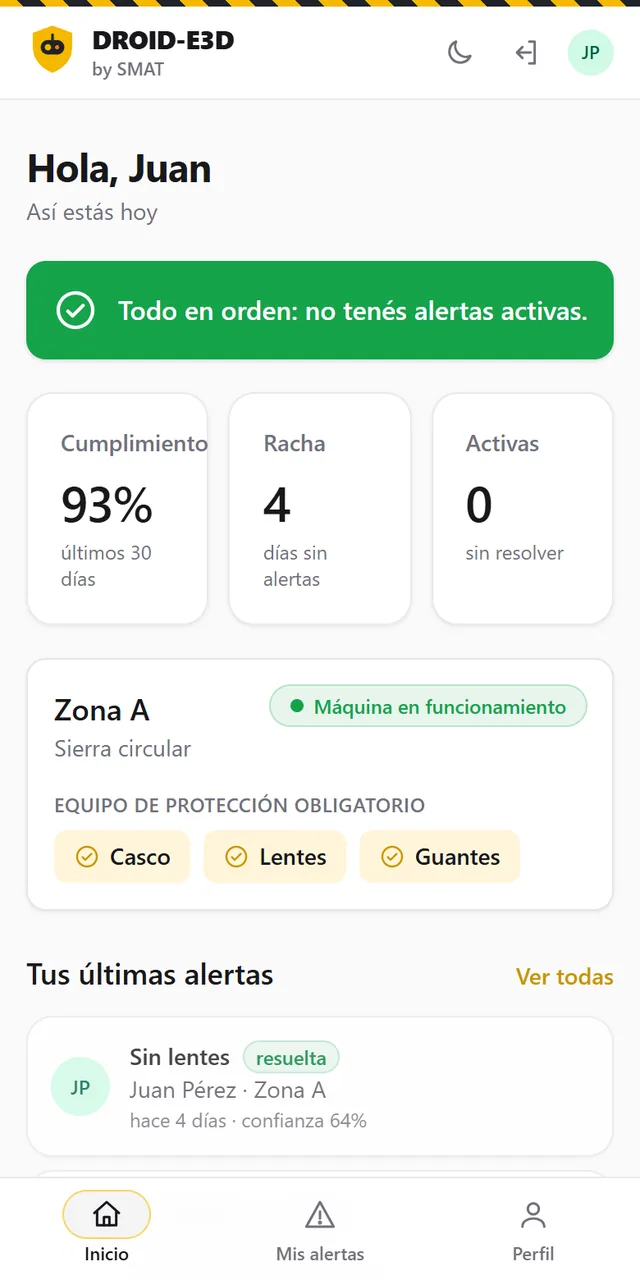
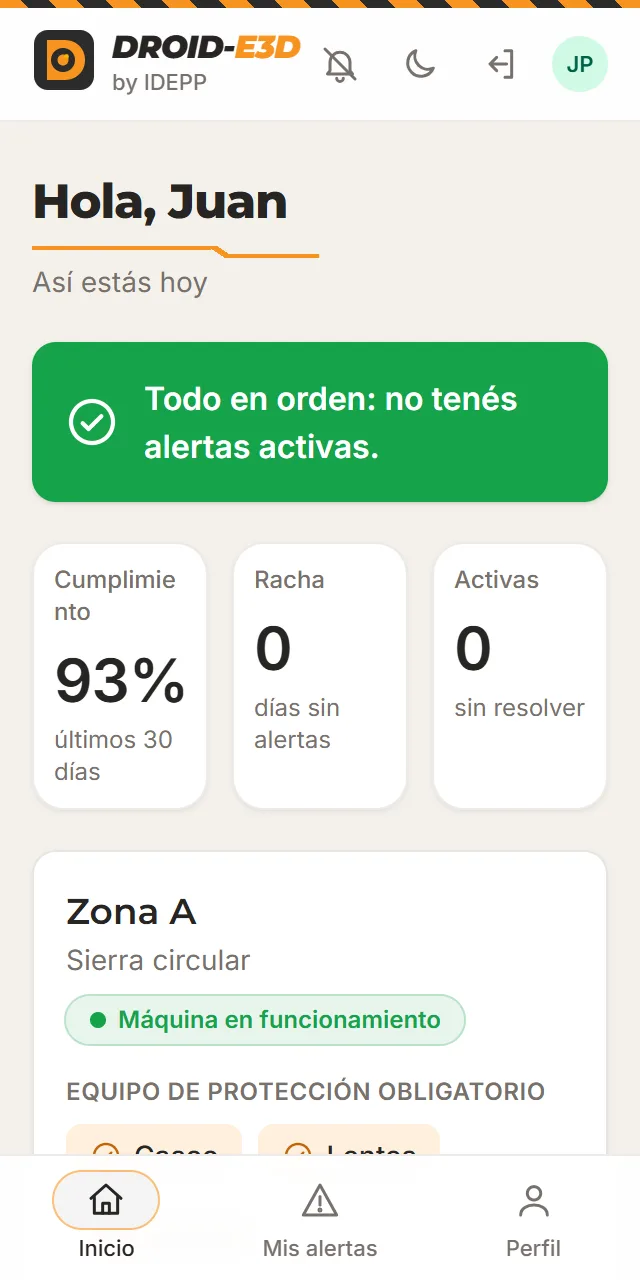
web: misma estética que la caja y el manual de usuario (naranja, crema, Montserrat)
Solo cambia el diseño, no el funcionamiento:
- Marca naranja #F7931E (antes amarillo), fondo crema, grises cálidos, títulos en Montserrat.
- Logo: D naranja con brillo amarillo; nombre DROID-E3D inclinado con E3D en naranja.
- Franja de la marca y línea con quiebre debajo del título de cada página.
- Favicon, íconos de la app y capturas de la página pública con el diseño nuevo
  (las viejas decían "by SMAT").
- Manual de marca v3 y logos SVG actualizados.

diff --git a/src/SMAT/frontend/src/index.css b/src/SMAT/frontend/src/index.css
@@ -5,15 +5,34 @@
 @custom-variant dark (&:where(.dark, .dark *));
 
 /* Colores de la marca (docs/SMAT/EMPRESA-SMAT/03-marca/manual-de-marca.md).
-   Estilo SaaS: el amarillo es el ACENTO (logo, elemento activo, foco); los botones principales usan tinta.
+   Misma estética que la caja y el manual de usuario: naranja de acento, fondo crema, grises cálidos
+   y títulos en Montserrat. Los botones principales usan tinta.
    Se usan como clases: bg-marca, text-alerta, border-ok, etc. */
 @theme {
-  --color-marca: #f5b800;        /* amarillo de seguridad: acentos */
-  --color-marca-oscuro: #c99400; /* amarillo para texto sobre fondo claro */
-  --color-naranja: #f97316;      /* advertencias, máquina detenida */
+  --color-marca: #f7931e;        /* naranja de la caja: acentos */
+  --color-marca-oscuro: #c2650a; /* naranja para texto sobre fondo claro (se lee bien) */
+  --color-naranja: #d97706;      /* advertencias (ámbar, para no confundirse con la marca) */
   --color-alerta: #dc2626;       /* rojo: alertas activas, emergencia */
   --color-ok: #16a34a;           /* verde: todo en orden */
-  --color-tinta: #1f2328;        /* texto oscuro sobre amarillo */
+  --color-tinta: #2b2b2b;        /* texto oscuro sobre naranja (el gris oscuro de la caja) */
+  --color-crema: #f4f1eb;        /* fondo de la página, como el de la caja */
+
+  /* Letra de los títulos: Montserrat, como la caja y el manual (se carga en index.html). El texto sigue con la letra del sistema. */
+  --font-titulo: "Montserrat", "Inter", ui-sans-serif, system-ui, sans-serif;
+
+  /* Grises cálidos (tono piedra) en vez de los grises fríos: combinan con el crema y el naranja.
+     Así toda la web cambia de tono sin tocar cada componente. */
+  --color-zinc-50: #fafaf9;
+  --color-zinc-100: #f5f5f4;
+  --color-zinc-200: #e7e5e4;
+  --color-zinc-300: #d6d3d1;
+  --color-zinc-400: #a8a29e;
+  --color-zinc-500: #78716c;
+  --color-zinc-600: #57534e;
+  --color-zinc-700: #44403c;
+  --color-zinc-800: #2f2d2b;
+  --color-zinc-900: #262523;
+  --color-zinc-950: #1b1a19;
 
   /* sombras más suaves que las de fábrica, típicas de un panel SaaS */
   --shadow-xs: 0 1px 2px 0 rgb(0 0 0 / 0.04);
@@ -24,9 +43,13 @@
 @layer base {
   /* Fondo y texto de toda la página, en claro y en oscuro */
   body {
-    @apply bg-zinc-50 text-zinc-900 antialiased dark:bg-zinc-950 dark:text-zinc-100;
+    @apply bg-crema text-zinc-900 antialiased dark:bg-zinc-950 dark:text-zinc-100;
   }
-  /* Borde amarillo visible al moverse con el teclado (Tab), en todos los elementos */
+  /* Títulos en Montserrat, como la caja y el manual */
+  h1, h2, h3 {
+    font-family: var(--font-titulo);
+  }
+  /* Borde naranja visible al moverse con el teclado (Tab), en todos los elementos */
   :focus-visible {
     @apply outline-2 outline-offset-2 outline-marca;
   }
@@ -37,6 +60,15 @@
 @keyframes aparecer { from { opacity: 0; transform: translateY(6px); } to { opacity: 1; transform: none; } }
 @keyframes avanzar-recorrido { to { stroke-dashoffset: -44; } }
 @layer utilities {
+  /* Franja de la marca: rayas naranjas y gris oscuro en diagonal (como las /// de la caja) */
+  .franja-marca { background-image: repeating-linear-gradient(45deg, var(--color-marca) 0 10px, var(--color-tinta) 10px 20px); }
+  /* Línea naranja con un quiebre en diagonal, debajo del título de cada página (como el manual) */
+  .trazo-marca {
+    height: 6px; width: 9rem;
+    background: linear-gradient(var(--color-marca), var(--color-marca)) 0 0 / 5.6rem 2px no-repeat,
+                linear-gradient(var(--color-marca), var(--color-marca)) 6.15rem 4px / 2.85rem 2px no-repeat,
+                linear-gradient(33deg, transparent 42%, var(--color-marca) 42% 64%, transparent 64%) 5.45rem 0 / 0.85rem 6px no-repeat;
+  }
   .animar-panel { animation: entrar-derecha 0.22s ease-out; }
   /* Mapa: el robot se desliza de una zona a otra y el recorrido punteado avanza */
   .robot-mapa { transition: transform 1.2s ease-in-out; }

diff --git a/src/SMAT/frontend/src/components/Logo.jsx b/src/SMAT/frontend/src/components/Logo.jsx
@@ -1,22 +1,23 @@
-// Logo de DROID-E3D: una letra D amarilla con el lente de una cámara (ver el manual de marca).
+// Logo de DROID-E3D: una letra D naranja con el lente de una cámara (ver el manual de marca).
 // conTexto = muestra también "DROID-E3D by IDEPP" al lado.
 export default function Logo({ conTexto = true, className = 'size-9' }) {
   return (
     <span className="inline-flex items-center gap-2">
       <svg viewBox="0 0 64 64" className={className} aria-hidden="true">
         {/* fondo: cuadrado con puntas redondeadas */}
-        <rect x="2" y="2" width="60" height="60" rx="14" fill="#1f2328" />
-        {/* letra D amarilla */}
-        <path d="M15 12h17c13 0 21 9 21 20s-8 20-21 20H15z" fill="#f5b800" />
+        <rect x="2" y="2" width="60" height="60" rx="14" fill="#2b2b2b" />
+        {/* letra D naranja */}
+        <path d="M15 12h17c13 0 21 9 21 20s-8 20-21 20H15z" fill="#f7931e" />
         {/* lente de la cámara */}
-        <circle cx="31" cy="32" r="12" fill="#1f2328" />
-        <circle cx="31" cy="32" r="5.5" fill="#f5b800" />
-        {/* brillo naranja del lente */}
-        <circle cx="34.5" cy="28.5" r="2.3" fill="#f97316" />
+        <circle cx="31" cy="32" r="12" fill="#2b2b2b" />
+        <circle cx="31" cy="32" r="5.5" fill="#f7931e" />
+        {/* brillo amarillo del lente */}
+        <circle cx="34.5" cy="28.5" r="2.3" fill="#f5b800" />
       </svg>
       {conTexto && (
         <span className="leading-none">
-          <span className="block text-base font-extrabold tracking-tight">DROID-E3D</span>
+          {/* El nombre como en la caja: Montserrat gruesa e inclinada, con "E3D" en naranja */}
+          <span className="block font-titulo text-base font-black tracking-tight italic">DROID-<span className="text-marca">E3D</span></span>
           <span className="block text-[11px] font-medium text-zinc-500 dark:text-zinc-400">by IDEPP</span>
         </span>
       )}

diff --git a/src/SMAT/frontend/src/components/publico/LayoutPublico.jsx b/src/SMAT/frontend/src/components/publico/LayoutPublico.jsx
@@ -6,7 +6,7 @@ import EncabezadoPublico, { SECCIONES } from './EncabezadoPublico.jsx'
 
 function Pie() {
   return (
-    <footer className="border-t border-zinc-200/70 bg-white dark:border-zinc-800 dark:bg-zinc-950">
+    <footer className="border-t border-zinc-200/70 bg-crema dark:border-zinc-800 dark:bg-zinc-950">
       <div className="mx-auto grid max-w-6xl gap-8 px-4 py-10 md:grid-cols-[2fr_1fr_1fr] md:px-8">
         <div>
           <Logo className="size-9" />
@@ -40,7 +40,7 @@ export default function LayoutPublico() {
   useEffect(() => { window.scrollTo(0, 0) }, [pathname])   // cada página nueva arranca desde arriba
 
   return (
-    <div className="flex min-h-dvh flex-col bg-white text-zinc-900 dark:bg-zinc-950 dark:text-zinc-100">
+    <div className="flex min-h-dvh flex-col bg-crema text-zinc-900 dark:bg-zinc-950 dark:text-zinc-100">
       <a href="#contenido" className="sr-only focus:not-sr-only focus:absolute focus:z-50 focus:m-2 focus:rounded-lg focus:bg-marca focus:px-3 focus:py-2 focus:text-tinta">
         Saltar al contenido
       </a>

diff --git a/src/SMAT/frontend/src/components/publico/EncabezadoPublico.jsx b/src/SMAT/frontend/src/components/publico/EncabezadoPublico.jsx
@@ -31,8 +31,8 @@ export default function EncabezadoPublico() {
     : <Link to="/login" className="rounded-lg bg-zinc-900 px-4 py-2 text-sm font-semibold text-white hover:bg-zinc-700 dark:bg-white dark:text-zinc-900 dark:hover:bg-zinc-200">Ingresar</Link>
 
   return (
-    <header className="sticky top-0 z-40 border-b border-zinc-200/70 bg-white/85 backdrop-blur dark:border-zinc-800 dark:bg-zinc-950/85">
-      <div className="h-1 bg-[repeating-linear-gradient(45deg,#f5b800_0_10px,#1f2328_10px_20px)]" />
+    <header className="sticky top-0 z-40 border-b border-zinc-200/70 bg-crema/85 backdrop-blur dark:border-zinc-800 dark:bg-zinc-950/85">
+      <div className="h-1 franja-marca" />
       <nav className="mx-auto flex h-16 max-w-6xl items-center justify-between gap-4 px-4 md:px-8" aria-label="Principal">
         <Link to="/" aria-label="DROID-E3D, página de inicio"><Logo className="size-9" /></Link>
 

diff --git a/src/SMAT/frontend/src/components/BarraLateral.jsx b/src/SMAT/frontend/src/components/BarraLateral.jsx
@@ -26,7 +26,7 @@ export default function BarraLateral() {
 
   return (
     <aside className={`sticky top-0 hidden h-dvh shrink-0 flex-col border-r border-zinc-200/80 bg-white transition-[width] duration-200 md:flex dark:border-zinc-800 dark:bg-zinc-900 ${colapsado ? 'w-[72px]' : 'w-64'}`}>
-      <div className="h-1 shrink-0 bg-[repeating-linear-gradient(45deg,#f5b800_0_10px,#1f2328_10px_20px)]" />
+      <div className="h-1 shrink-0 franja-marca" />
       <div className={`flex h-16 items-center ${colapsado ? 'justify-center' : 'justify-between px-4'}`}>
         <Link to={inicioSegunRol(usuario)} aria-label="Ir al inicio"><Logo conTexto={!colapsado} className="size-8" /></Link>
         {!colapsado && <button type="button" onClick={alternar} className={iconoChico} aria-label="Achicar el menú" title="Achicar el menú"><span aria-hidden="true">«</span></button>}

diff --git a/src/SMAT/frontend/index.html b/src/SMAT/frontend/index.html
@@ -3,7 +3,11 @@
   <head>
     <meta charset="UTF-8" />
     <meta name="viewport" content="width=device-width, initial-scale=1.0" />
-    <meta name="theme-color" content="#f5b800" />
+    <meta name="theme-color" content="#f7931e" />
+    <!-- Letra de los títulos (Montserrat), como la caja y el manual -->
+    <link rel="preconnect" href="https://fonts.googleapis.com" />
+    <link rel="preconnect" href="https://fonts.gstatic.com" crossorigin />
+    <link rel="stylesheet" href="https://fonts.googleapis.com/css2?family=Montserrat:ital,wght@0,600;0,700;0,800;0,900;1,800;1,900&display=swap" />
     <link rel="icon" type="image/svg+xml" href="/favicon.svg" />
     <!-- Ícono al instalar en el iPhone (el resto de los íconos los declara el manifest de la PWA) -->
     <link rel="apple-touch-icon" href="/iconos/apple-touch-icon.png" />

diff --git a/src/SMAT/frontend/src/components/FormZona.jsx b/src/SMAT/frontend/src/components/FormZona.jsx
@@ -67,7 +67,7 @@ export default function FormZona({ inicial, zonas, error, guardando, onGuardar, 
           {Object.entries(NOMBRES_EPP).map(([clave, nombre]) => (
             <label key={clave} className={`cursor-pointer rounded-lg border px-3 py-2 text-sm font-medium transition ${
               f.epp_requerido.includes(clave) ? 'border-marca bg-marca/15' : 'border-zinc-200 hover:bg-zinc-50 dark:border-zinc-700 dark:hover:bg-zinc-800'}`}>
-              <input type="checkbox" className="mr-2 accent-[#f5b800]" checked={f.epp_requerido.includes(clave)} onChange={() => alternarEpp(clave)} />
+              <input type="checkbox" className="mr-2 accent-marca" checked={f.epp_requerido.includes(clave)} onChange={() => alternarEpp(clave)} />
               {nombre}
             </label>
           ))}

diff --git a/src/SMAT/frontend/src/components/publico/Bloques.jsx b/src/SMAT/frontend/src/components/publico/Bloques.jsx
@@ -52,7 +52,7 @@ export function LlamadoDemo() {
   return (
     <section className="px-4 pb-16 md:px-8">
       <div className="relative mx-auto max-w-6xl overflow-hidden rounded-3xl bg-tinta px-6 py-12 text-white md:px-12">
-        <div aria-hidden="true" className="absolute inset-x-0 top-0 h-1.5 bg-[repeating-linear-gradient(45deg,#f5b800_0_12px,#1f2328_12px_24px)]" />
+        <div aria-hidden="true" className="absolute inset-x-0 top-0 h-1.5 franja-marca" />
         <div className="flex flex-col items-start justify-between gap-6 md:flex-row md:items-center">
           <div>
             <h2 className="text-2xl font-bold tracking-tight md:text-3xl">¿Querés verlo funcionando en tu planta?</h2>

diff --git a/src/SMAT/frontend/src/components/BarraMovil.jsx b/src/SMAT/frontend/src/components/BarraMovil.jsx
@@ -16,7 +16,7 @@ export default function BarraMovil() {
 
   return (
     <header className="sticky top-0 z-30 border-b border-zinc-200/80 bg-white/90 backdrop-blur md:hidden dark:border-zinc-800 dark:bg-zinc-900/90">
-      <div className="h-1 bg-[repeating-linear-gradient(45deg,#f5b800_0_10px,#1f2328_10px_20px)]" />
+      <div className="h-1 franja-marca" />
       <div className="flex h-14 items-center justify-between px-4">
         <Link to={inicioSegunRol(usuario)} aria-label="Ir al inicio"><Logo className="size-8" /></Link>
         <div className="flex items-center gap-1">

diff --git a/src/SMAT/frontend/src/components/Titulo.jsx b/src/SMAT/frontend/src/components/Titulo.jsx
@@ -3,7 +3,8 @@ export default function Titulo({ titulo, subtitulo, children }) {
   return (
     <div className="mb-5 flex flex-wrap items-end justify-between gap-3">
       <div>
-        <h1 className="text-2xl font-bold tracking-tight">{titulo}</h1>
+        <h1 className="text-2xl font-extrabold tracking-tight">{titulo}</h1>
+        <div className="trazo-marca mt-1.5" aria-hidden="true" />
         {subtitulo && <p className="mt-0.5 text-sm text-zinc-500 dark:text-zinc-400">{subtitulo}</p>}
       </div>
       {children && <div className="flex gap-2">{children}</div>}

diff --git a/src/SMAT/frontend/vite.config.js b/src/SMAT/frontend/vite.config.js
@@ -17,8 +17,8 @@ const pwa = VitePWA({
     start_url: '/app',                   // al abrir la app instalada va directo al sistema (pide login si hace falta)
     scope: '/',
     display: 'standalone',               // sin barra del navegador, como una app
-    background_color: '#1f2328',
-    theme_color: '#f5b800',
+    background_color: '#2b2b2b',
+    theme_color: '#f7931e',
     icons: [
       { src: '/iconos/icono-192.png', sizes: '192x192', type: 'image/png' },
       { src: '/iconos/icono-512.png', sizes: '512x512', type: 'image/png' },

diff --git a/docs/SMAT/EMPRESA-SMAT/03-marca/manual-de-marca.md b/docs/SMAT/EMPRESA-SMAT/03-marca/manual-de-marca.md
@@ -1,8 +1,11 @@
 # Manual de marca
 
-> **Estado:** completo (v2) · **Responsable:** Tiziano · **Revisión:** Morena · **Actualizado:** 05/11/2026
+> **Estado:** completo (v3) · **Responsable:** Tiziano · **Revisión:** Morena · **Actualizado:** 16/11/2026
 
 **Para qué sirve:** reglas visuales y de tono. La web de DROID-E3D ya usa estos colores (definidos en `src/SMAT/frontend/src/index.css`).
+
+**Desde el 16/11/2026 (v3)** la web, la caja y el manual de usuario siguen la **misma estética**: naranja, fondo crema, gris
+oscuro y títulos en Montserrat. Antes la marca era amarilla.
 
 ## 1. Nombres
 
@@ -17,7 +20,7 @@
 
 ## 2. Logo
 
-**Isotipo DROID-E3D:** una letra **D** amarilla con el lente de una cámara adentro (el robot que mira), sobre un cuadrado color tinta con las puntas redondeadas. Reemplaza al escudo de la v1 (06/10/2026).
+**Isotipo DROID-E3D:** una letra **D** naranja con el lente de una cámara adentro (el robot que mira), sobre un cuadrado color tinta con las puntas redondeadas. Reemplaza al escudo de la v1 (06/10/2026).
 
 | Archivo | Uso |
 |---|---|
@@ -27,31 +30,39 @@
 
 - **Tamaño mínimo:** 24 px de alto en pantalla, 8 mm impreso.
 - **Espacio libre alrededor:** el radio del lente, como mínimo, en los cuatro lados.
-- **Sobre fondo oscuro:** la D se mantiene amarilla y el cuadrado no cambia, aunque se funda con el fondo; el texto pasa a blanco.
+- **Sobre fondo oscuro:** la D se mantiene naranja y el cuadrado no cambia, aunque se funda con el fondo; el texto pasa a blanco.
 - **No hacer:** deformar o rotar el logo, cambiarle los colores, ponerle sombras, ubicarlo sobre fotos que no dejen leerlo.
 
 ## 3. Colores
 
 | Nombre | HEX | Uso |
 |---|---|---|
-| **Amarillo seguridad** (principal) | `#F5B800` | Logo, acentos, elemento activo del menú y foco del teclado |
-| Amarillo oscuro | `#C99400` | Botón al pasar el mouse, texto amarillo sobre blanco |
-| **Tinta** | `#1F2328` | Botones principales de la web, texto sobre amarillo, fondo y lente del logo, franja de seguridad |
+| **Naranja** (principal) | `#F7931E` | Logo, acentos, elemento activo del menú, foco del teclado, rayas `///` |
+| Naranja oscuro | `#C2650A` | Texto naranja sobre fondo claro (se lee mejor) |
+| **Tinta** | `#2B2B2B` | Botones principales de la web, texto sobre naranja, fondo y lente del logo, franja de la marca |
+| **Crema** | `#F4F1EB` | Fondo de la web, de la caja y del manual de usuario |
+| Amarillo | `#F5B800` | Brillo del lente del logo |
 | **Rojo alerta** | `#DC2626` | Alertas activas, parada de emergencia, errores |
 | **Verde OK** | `#16A34A` | Todo en orden, alertas resueltas |
-| Naranja | `#F97316` | Advertencias, brillo del lente del logo |
-| Grises | `#F4F4F5` a `#09090B` | Fondos y textos (escala *zinc*) |
+| Ámbar | `#D97706` | Advertencias (distinto del naranja de la marca) |
+| Grises cálidos | `#FAFAF9` a `#1B1A19` | Fondos y textos (tono piedra, combinan con el crema) |
 
-**Franja de seguridad:** rayas diagonales amarillo/tinta de 12 px, como la cinta de peligro. Se usa arriba de la barra de la web y del login.
+**Franja de la marca:** rayas diagonales naranja/tinta, como las `///` de la caja. Se usa arriba de la barra de la web y del login.
 
-**Contraste:** sobre el amarillo el texto va siempre en tinta, nunca en blanco (no se lee).
+**Línea con quiebre:** una línea naranja fina que baja en diagonal, como la de la caja. En la web va debajo del título de
+cada página; en el manual, arriba de cada hoja.
 
-**Estilo de la web (desde el 07/10/2026):** moderno tipo SaaS. El amarillo se usa como **acento** (no para todos los botones), con fondos claros, sombras suaves y bordes redondeados.
+**Contraste:** sobre el naranja el texto va siempre en tinta, nunca en blanco.
+
+**Estilo de la web:** moderno tipo SaaS (desde el 07/10/2026), con la estética de la caja (desde el 16/11/2026). El naranja
+se usa como **acento** (no para todos los botones), con fondo crema, tarjetas blancas, sombras suaves y bordes redondeados.
 
 ## 4. Tipografía
 
-- **En pantalla (web):** la fuente del sistema (*Segoe UI* en Windows, *Roboto* en Android, *San Francisco* en iPhone). Carga rápido y se ve nativa.
-- **En documentos y presentaciones:** **Arial** o **Helvetica**. Títulos en negrita, texto en regular.
+- **Títulos (web, caja, manual):** **Montserrat**, gruesa. El nombre **DROID-E3D** va en Montserrat negra e inclinada, con
+  «E3D» en naranja, como en la caja.
+- **Texto en pantalla (web):** la fuente del sistema (*Segoe UI* en Windows, *Roboto* en Android, *San Francisco* en iPhone). Carga rápido y se ve nativa.
+- **Texto en documentos impresos:** Inter (manual de usuario), o **Arial** / **Helvetica**.
 - Números de las tarjetas: cifras de ancho fijo (*tabular*) para que no «salten» al actualizarse.
 
 ## 5. Tono de voz
